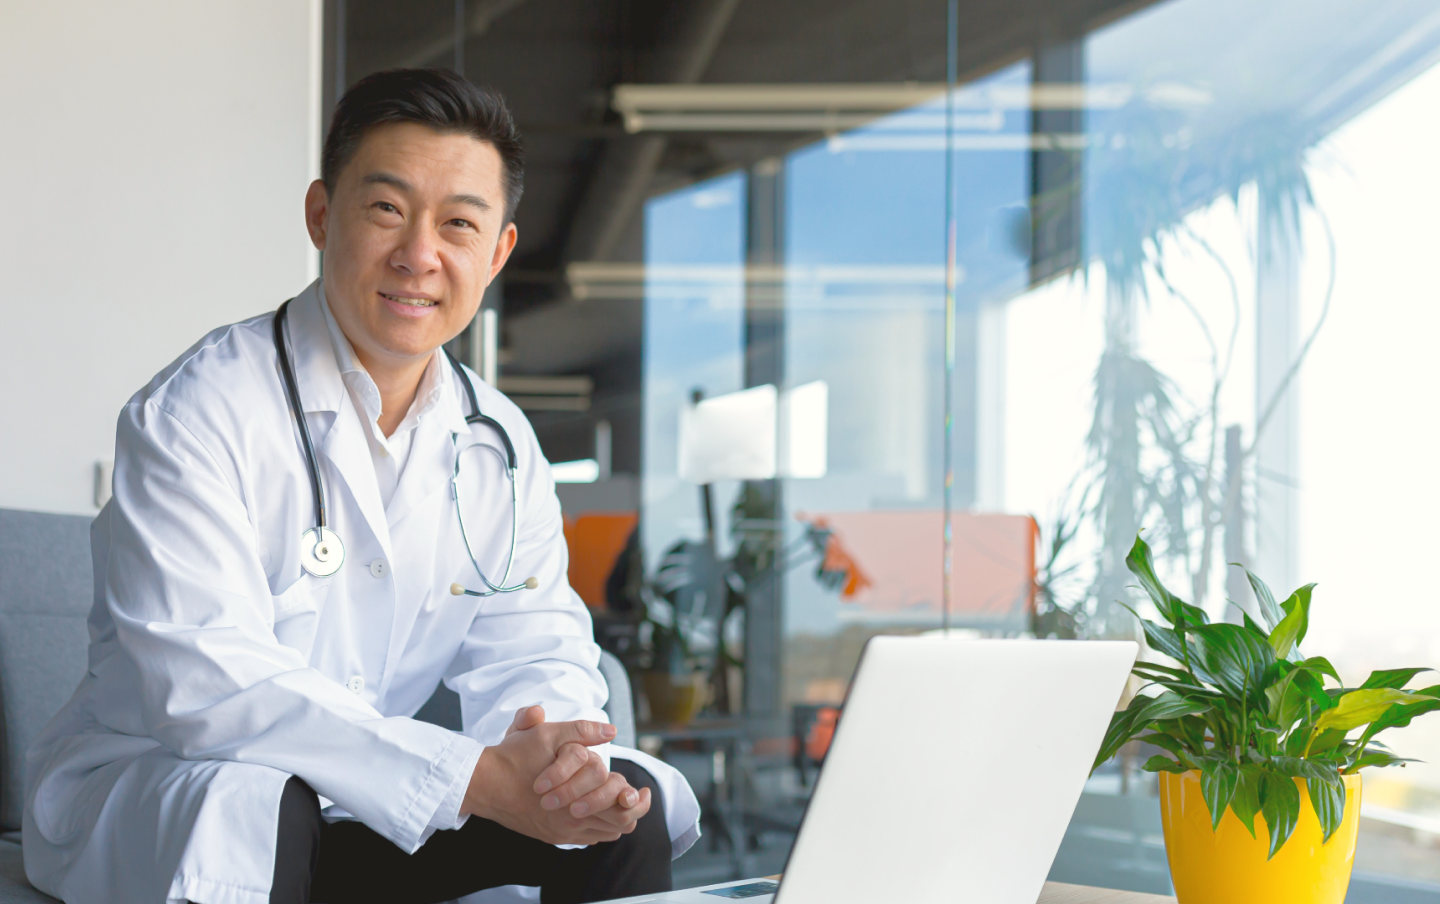
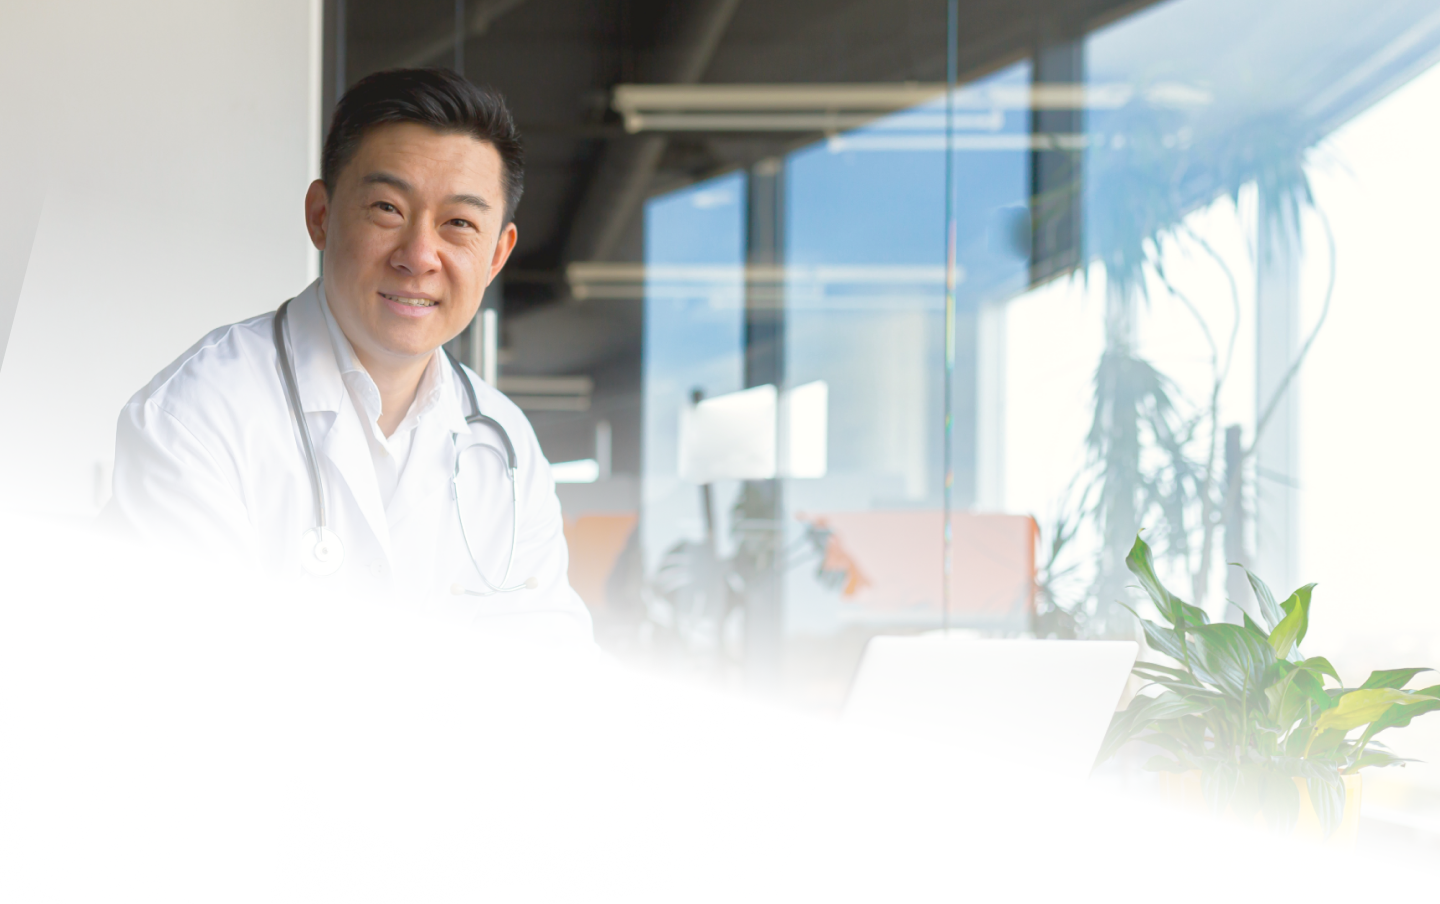
Replaced grey with white in cards and pge bg

diff --git a/tailwind.config.js b/tailwind.config.js
@@ -14,30 +14,43 @@ export default {
           800: '#11284B',
           900: '#0B1B34',
         },
-        /* ── The beige is gone ────────────────────────────────────────────
-           `cream` was #ECEAE1 — the page's own surface and the end stop of
-           every gradient — and `cream.soft` was #F3F5EE, the near-white used
-           for cards, the nav pill and the `light` button. Both are #CCD0D2 now,
-           the same value as `ash`, so there is no beige left in the palette.
+        /* ── Both of these are WHITE now ──────────────────────────────────
+           The history, because the names still say "cream": `cream` was #ECEAE1
+           and `cream.soft` #F3F5EE (a warm off-white for cards, the nav pill and
+           the `light` button); then both became #CCD0D2, the same grey as `ash`.
+           That second step is what made the site read as grey-on-grey — the page
+           itself was #CCD0D2, every card and button was #CCD0D2, and roughly a
+           dozen sections either declared `bg-cream-soft` or declared nothing and
+           inherited the body. Whatever tonal variety the layout had came from the
+           navy, gold and teal plates alone.
 
-           The two NAMES are kept rather than rewritten to `ash` across 42 call
-           sites, and they still mean different things at one value: `cream` is
-           "the page's own surface", `cream-soft` is "a surface sitting on the
-           page". If they ever need to diverge again, they diverge here.
+           So this is the single knob that turns the page white. `cream` is "the
+           page's own surface" and `cream-soft` is "a surface sitting on the page",
+           and at #FFFFFF both are the same thing, which is correct: the page is
+           white and the things on it are white.
 
-           One consequence to know about: a `cream-soft` card on a `cream`
-           section is now exactly the colour of the section, so those cards are
-           separated by their shadow alone rather than by tone. That is the
-           intended result, not an oversight.
+           ── Where the grey went instead ─────────────────────────────────────
+           Grey is now a SECTION colour and nothing else, spent deliberately in
+           nine places: Home's hero ramp and its FAQ → Availability tint band,
+           About's ValuesStack, MembersHub's card grid, Find a Doctor's spy list
+           and the ramp under it, Plans → Employers' closing ramp, PortalShowcase,
+           and StepFlow / CtaBand's opt-in `cream` surface. Every one of those
+           writes #CCD0D2 literally at the point of use, for the reason set out in
+           the `ash` note below — a section must not be able to lose its
+           background because a utility wasn't emitted.
 
-           `cream-soft` was also doing a second, unrelated job — LIGHT INK on
-           navy, in the footer, the ghost button's hover, the FAQ and LinkHub
-           rails and the map tooltip. Grey text on navy is not the same request
-           as a grey surface, so all 12 of those were switched to pure white
-           and none of them read this token any more. */
+           ── The consequence to know about ───────────────────────────────────
+           A white card on a white section has nothing but its shadow, and a few
+           cards had no shadow at all. Those took a `border-navy-800/[0.08]`
+           hairline in the same pass (FeatureReveal, DocumentShelf, VideoLibrary's
+           closed state, FaqExplorer's empty state, Virtual Care's treats card),
+           and `Button`'s `light` and `ghost` variants took a navy ring for the
+           same reason — a white button on a white section needs an edge. If a new
+           white card looks like it is floating in nothing, that hairline is the
+           fix, not a grey fill. */
         cream: {
-          DEFAULT: '#CCD0D2',
-          soft: '#CCD0D2',
+          DEFAULT: '#FFFFFF',
+          soft: '#FFFFFF',
         },
         gold: {
           DEFAULT: '#D5AC67',

diff --git a/src/components/Button.tsx b/src/components/Button.tsx
@@ -32,13 +32,17 @@ const iconMap = { arrow: ArrowRight, arrowUpRight: ArrowUpRight, plus: Plus }
 const PRIMARY_VARIANTS: ButtonProps['variant'][] = ['light', 'white', 'gold', 'dark']
 
 const baseColors: Record<NonNullable<ButtonProps['variant']>, string> = {
-  light: 'bg-cream-soft text-navy-800 shadow-sm',
-  // `white`, next to a `light` that is already nearly white, because #F3F5EE is
-  // NOT white: it is the site's warm off-white, mixed to sit on cream. On the
-  // gold, teal, navy and sky hero surfaces that warmth reads as a dirty panel,
-  // and the brief for all four asks for a white button with navy text. So the two
-  // coexist — `light` on cream and white page sections, `white` on a saturated
-  // one — and neither is a substitute for the other.
+  // Both `light` and `white` are white fills now, and the difference between
+  // them is the RING. `light` was #F3F5EE and then #CCD0D2 — a grey button, which
+  // is what it was doing on white sections. White with a navy hairline is the
+  // same control without the grey: on a white page the ring is the only thing
+  // giving the button an edge, and 10% navy is enough to draw one without
+  // reading as an outlined button.
+  light: 'bg-white text-navy-800 shadow-sm ring-1 ring-inset ring-navy-800/10',
+  // `white` keeps NO ring, and that is the whole reason the two still coexist:
+  // it is for the gold, teal, navy and sky surfaces, where the saturated field
+  // supplies the edge and a navy hairline just muddies it. `light` on light
+  // sections, `white` on saturated ones — neither is a substitute for the other.
   white: 'bg-white text-navy-800 shadow-sm',
   gold: 'bg-gold text-navy-800',
   // No `hover:bg-navy-700` any more: `dark` is a primary variant now, and the
@@ -46,7 +50,15 @@ const baseColors: Record<NonNullable<ButtonProps['variant']>, string> = {
   // element resolve by stylesheet order rather than by the order they are
   // written here, so the pair was a coin toss.
   dark: 'bg-navy-800 text-white',
-  ghost: 'bg-black/5 text-navy-800 hover:bg-navy-800 hover:text-white',
+  // TRANSPARENT, not white — the one variant that must not carry a fill.
+  // It was `bg-black/5`, which on a white page renders as a grey pill, and on
+  // gold as a dirty patch of gold. Transparent plus a navy hairline is the same
+  // secondary control on every surface it is actually used on: the mist hero,
+  // white sections, and the gold closing band (where it pairs with a white
+  // `light` button — a white ghost there would have made the pair two identical
+  // white buttons). Filling it white instead would break exactly that pairing.
+  ghost:
+    'bg-transparent text-navy-800 ring-1 ring-inset ring-navy-800/20 hover:bg-navy-800 hover:text-white hover:ring-navy-800',
 }
 
 // badge = the little circle the icon sits in on primary-style buttons.

diff --git a/src/components/Navbar/Navbar.tsx b/src/components/Navbar/Navbar.tsx
@@ -197,7 +197,7 @@ export default function Navbar() {
      PageHero/heroTone.tsx). navy-800/90 links and the four-colour mark are
      invisible on the navy hero, and the mark's lotus disappears on the gold one.
 
-     The moment the pill goes solid it is cream-soft again, whatever is behind it,
+     The moment the pill goes solid it is white again, whatever is behind it,
      so `solid` collapses straight back to the mist tokens — the ink follows the
      PILL, not the page. Which also means everything below is a plain colour swap
      on a `transition-colors`, with no state to keep in sync. */
@@ -217,7 +217,7 @@ export default function Navbar() {
         <nav
           aria-label="Main"
           className={`relative flex items-center justify-between gap-3 rounded-[28px] corner-smooth px-4 py-3 transition-all duration-500 sm:px-5 ${
-            solid ? 'bg-cream-soft/70 shadow-soft backdrop-blur-[28px]' : 'bg-transparent'
+            solid ? 'bg-white/70 shadow-soft backdrop-blur-[28px]' : 'bg-transparent'
           }`}
         >
           <Link href="/" aria-label="Fortiva home" className="shrink-0">
@@ -290,7 +290,7 @@ export default function Navbar() {
                       // pointer-events + aria-hidden instead keeps the panel
                       // focusable the instant it opens, and still animates on
                       // the way out (which a visibility swap would cut short).
-                      className={`absolute left-1/2 top-full z-10 mt-4 origin-top rounded-[20px] corner-smooth border border-navy-800/5 bg-cream-soft/95 p-2 shadow-soft backdrop-blur-[28px] transition-[opacity,transform] duration-200 ${
+                      className={`absolute left-1/2 top-full z-10 mt-4 origin-top rounded-[20px] corner-smooth border border-navy-800/10 bg-white/95 p-2 shadow-soft backdrop-blur-[28px] transition-[opacity,transform] duration-200 ${
                         twoColumn ? 'w-[460px]' : 'w-[268px]'
                       } ${
                         isOpen
@@ -350,7 +350,7 @@ export default function Navbar() {
         <div
           id="mobile-nav"
           data-lenis-prevent
-          className={`mt-3 origin-top overflow-y-auto rounded-[24px] corner-smooth border border-navy-800/5 bg-cream-soft/95 shadow-soft backdrop-blur-[28px] transition-all duration-300 lg:hidden ${
+          className={`mt-3 origin-top overflow-y-auto rounded-[24px] corner-smooth border border-navy-800/10 bg-white/95 shadow-soft backdrop-blur-[28px] transition-all duration-300 lg:hidden ${
             mobileOpen
               ? 'max-h-[calc(100vh-7.5rem)] scale-100 opacity-100'
               : 'pointer-events-none max-h-0 scale-[0.98] border-transparent opacity-0'

diff --git a/src/components/FaqExplorer/FaqExplorer.tsx b/src/components/FaqExplorer/FaqExplorer.tsx
@@ -271,7 +271,7 @@ export default function FaqExplorer({
                 onChange={(e) => setQuery(e.target.value)}
                 aria-label="Search the questions and answers"
                 placeholder="Search questions and answers"
-                className="corner-smooth w-full rounded-[14px] border border-navy-800/15 bg-cream-soft py-3 pl-11 pr-11 text-[15px] text-navy-800 transition-colors placeholder:text-navy-800/35 focus:border-navy-800/40 focus:outline-none"
+                className="corner-smooth w-full rounded-[14px] border border-navy-800/20 bg-white py-3 pl-11 pr-11 text-[15px] text-navy-800 transition-colors placeholder:text-navy-800/35 focus:border-navy-800/40 focus:outline-none"
               />
               {query && (
                 <button
@@ -365,7 +365,7 @@ export default function FaqExplorer({
           {/* ── grouped answers ────────────────────────────────────────────── */}
           <div>
             {shown.length === 0 ? (
-              <div className="corner-smooth rounded-card bg-cream-soft p-9 text-center">
+              <div className="corner-smooth rounded-card border border-navy-800/[0.08] bg-white p-9 text-center">
                 <h3 className="text-[20px] font-semibold text-navy-800">
                   Nothing matches &ldquo;{query.trim()}&rdquo;
                 </h3>
@@ -424,7 +424,7 @@ export default function FaqExplorer({
                                   {faq.q}
                                 </span>
                               </span>
-                              <span className="flex h-9 w-9 shrink-0 items-center justify-center rounded-full bg-cream-soft">
+                              <span className="flex h-9 w-9 shrink-0 items-center justify-center rounded-full border border-navy-800/15 bg-white">
                                 <Plus
                                   size={16}
                                   className="text-navy-800 transition-transform duration-300"

diff --git a/src/pages/About.tsx b/src/pages/About.tsx
@@ -206,10 +206,12 @@ export default function About() {
               superellipse wins — you get a squircle where the layout calls for a
               disc.
 
-              And it is cream below `lg`, white above. White is right where it sits
-              over the photograph; below `lg` the photograph is dropped and a white
-              disc on a white section is invisible — the plate disappeared and took
-              the shape of the section with it. Cream keeps it a plate.
+              And it is white at every width now, with a navy hairline. It used to
+              be `bg-cream lg:bg-white` — cream below `lg`, where the photograph is
+              dropped and a white disc on a white section would be invisible. The
+              `cream` token is white itself now, so that split had stopped meaning
+              anything; the hairline is what keeps the disc a plate where there is
+              no photograph under it.
 
               `shadow-soft` — 60px of blur at 25% navy, pulled in 20px — is the
               site's ambient shadow rather than its card shadow (`shadow-card` is
@@ -218,7 +220,7 @@ export default function About() {
               whole ask. It also does the job the `lg:bg-white` note above works
               around: the disc no longer relies on a colour change to be a plate,
               so it stays one on the white section below `lg` too. */}
-          <div className="mx-auto flex aspect-square w-full max-w-[400px] flex-col items-center justify-center rounded-full bg-cream px-9 text-center shadow-soft sm:max-w-[480px] sm:px-12 lg:mx-0 lg:bg-white">
+          <div className="mx-auto flex aspect-square w-full max-w-[400px] flex-col items-center justify-center rounded-full bg-white px-9 text-center shadow-soft ring-1 ring-navy-800/[0.08] sm:max-w-[480px] sm:px-12 lg:mx-0 lg:ring-0">
             <img
               ref={principlesMarkRef}
               src={images.icon}

diff --git a/src/styles/index.css b/src/styles/index.css
@@ -34,7 +34,7 @@ html.lenis body {
 
 body {
   font-family: 'New Hero', ui-sans-serif, system-ui, sans-serif;
-  background-color: #CCD0D2;
+  background-color: #FFFFFF;
   color: #11284B;
   overflow-x: hidden;
   -webkit-font-smoothing: antialiased;
@@ -110,7 +110,7 @@ body {
 
 /* soft ambient gradients, sampled from the reference screenshot */
 .gradient-hero {
-  background: linear-gradient(180deg, #BCCAD1 0%, #D3DCDF 30%, #CFD5D7 60%, #CCD0D2 100%);
+  background: linear-gradient(180deg, #BCCAD1 0%, #D3DCDF 30%, #E6EBED 60%, #FFFFFF 100%);
 }
 
 .gradient-lower {
@@ -143,12 +143,16 @@ body {
    because Plans → Employers uses it for a single self-contained section, where
    a full there-and-back ramp is the right shape. */
 :root {
-  /* Named `--band-cream` when it WAS cream. It is the page's grey now, and the
-     tint above it still lifts a few percent toward the brand's mist blue — so
-     the band reads as a subtle lightening of the grey rather than as a change
-     of temperature off a beige. The name is kept because two files and four
-     rules read it; what it holds is the page surface, whatever that is. */
-  --band-cream: #CCD0D2;
+  /* Named `--band-cream` when it WAS cream, and it went through a grey. The page
+     is WHITE now, so this holds white and the tint above it is what makes the
+     band a band: white → #E3E9EC → white, about an 8% step toward the brand's
+     mist blue. On a grey page that step was a barely-there change of
+     temperature; on white it is the one thing separating these two sections
+     from the rest of the page, which is the whole reason the band exists.
+
+     The name is kept because two files and four rules read it; what it holds is
+     the page surface, whatever that is. */
+  --band-cream: #FFFFFF;
   --band-tint: #E3E9EC;
 }
 

diff --git a/src/components/PortalShowcase/PortalShowcase.tsx b/src/components/PortalShowcase/PortalShowcase.tsx
@@ -474,7 +474,7 @@ export default function PortalShowcase({
        a fixed height. */
     <section
       ref={sectionRef}
-      className="bg-cream-soft pt-24 sm:pt-28 pin:flex pin:h-screen pin:flex-col pin:overflow-hidden pin:pt-28"
+      className="bg-[#CCD0D2] pt-24 sm:pt-28 pin:flex pin:h-screen pin:flex-col pin:overflow-hidden pin:pt-28"
     >
       {/* ── the centred copy block ──────────────────────────────────────────── */}
       <div className="px-6">
@@ -562,9 +562,15 @@ export default function PortalShowcase({
       </div>
 
       {/* ── the strip ───────────────────────────────────────────────────────
-          White on the section's cream, flush to its bottom edge, which is what
+          White on the section's grey, flush to its bottom edge, which is what
           makes it read as a bar the carousel is running behind rather than as a
-          row of links that happen to be underneath it. */}
+          row of links that happen to be underneath it.
+
+          This is why the section is one of the nine that KEEPS a grey plate now
+          that the page is white (see tailwind.config.js): the strip is white and
+          the carousel is navy, so both of them are drawn against the section
+          rather than against the page. On white the strip would be white on
+          white and only its top border would survive. */}
       <div className="shrink-0 border-t border-navy-800/10 bg-white">
         <div className="mx-auto max-w-container px-6">
           {/* The active section's own sentence. The reserved height is what stops a

diff --git a/src/components/FeatureReveal/FeatureReveal.tsx b/src/components/FeatureReveal/FeatureReveal.tsx
@@ -113,8 +113,12 @@ interface FeatureRevealProps {
    different degrees of transparency — as if some cards were letting more of the
    picture through than others.
 
-   Every card is `bg-cream-soft` now. The colour in this section comes from the
-   photograph and the gold badges; the cards are the quiet part. */
+   Every card is WHITE now, with a navy hairline. It was `bg-cream-soft`, which
+   was grey, which on the `light` tone put a grey card on a white section; and
+   white with only a shadow left the cards floating in nothing there. The colour
+   in this section comes from the photograph and the gold badges; the cards are
+   the quiet part. On the `dark` tone the hairline is invisible against navy,
+   which is harmless — the white fill is doing all the work there. */
 
 /* ── The two surfaces ────────────────────────────────────────────────────────
    Four tokens each, and there is deliberately no fifth for the cards: see the
@@ -456,7 +460,7 @@ export default function FeatureReveal({
               <div
                 key={feature.title}
                 ref={(el) => (cardRefs.current[i] = el)}
-                className={`corner-smooth relative flex flex-col rounded-2xl bg-cream-soft p-6 opacity-0 shadow-card-soft sm:p-7 pin:p-4 ${
+                className={`corner-smooth relative flex flex-col rounded-2xl border border-navy-800/[0.08] bg-white p-6 opacity-0 shadow-card-soft sm:p-7 pin:p-4 ${
                   i % 2 === 1 ? 'sm:top-14' : ''
                 }`}
               >

diff --git a/src/pages/MembersVirtualCare.tsx b/src/pages/MembersVirtualCare.tsx
@@ -179,7 +179,7 @@ export default function MembersVirtualCare() {
           </div>
 
           <div ref={treatsRef} className="opacity-0">
-            <div className="corner-smooth rounded-card bg-cream-soft p-7 sm:p-9">
+            <div className="corner-smooth rounded-card border border-navy-800/[0.08] bg-white p-7 sm:p-9">
               <div className="flex items-center gap-3">
                 <span className="flex h-11 w-11 items-center justify-center rounded-xl bg-gold">
                   <Video size={20} strokeWidth={1.75} className="text-navy-800" />
@@ -196,7 +196,7 @@ export default function MembersVirtualCare() {
                 {treats.map((item) => (
                   <li
                     key={item}
-                    className="corner-smooth flex items-center gap-2 rounded-[12px] bg-white px-3.5 py-2 text-[14px] font-medium text-navy-800/80"
+                    className="corner-smooth flex items-center gap-2 rounded-[12px] border border-navy-800/[0.12] bg-white px-3.5 py-2 text-[14px] font-medium text-navy-800/80"
                   >
                     <Thermometer size={14} strokeWidth={2} className="text-gold-dark" />
                     {item}

diff --git a/src/components/StepFlow/StepFlow.tsx b/src/components/StepFlow/StepFlow.tsx
@@ -19,9 +19,18 @@ interface StepFlowProps {
   surface?: 'white' | 'cream'
 }
 
+/* `cream` is the page's one opt-in grey plate — the `cream` tokens are white
+   now (see tailwind.config.js), so the grey is written literally here. Two pages
+   ask for it (Providers → Overview, Members → Virtual Care) and it is the only
+   tinted section on either.
+
+   `white`'s idle dot could not follow the token to white: an unlit dot on a
+   white section would be invisible, and the dots are how the section reads as a
+   sequence before it is scrolled. A 15% navy tint is the same "not yet" as the
+   old grey against a surface that is now white. */
 const SURFACES = {
-  white: { section: 'bg-white', ring: 'ring-white', dotIdle: 'bg-cream-soft' },
-  cream: { section: 'bg-cream-soft', ring: 'ring-cream-soft', dotIdle: 'bg-white' },
+  white: { section: 'bg-white', ring: 'ring-white', dotIdle: 'bg-navy-800/15' },
+  cream: { section: 'bg-[#CCD0D2]', ring: 'ring-[#CCD0D2]', dotIdle: 'bg-white' },
 } as const
 
 /**

diff --git a/src/pages/BrokersOverview.tsx b/src/pages/BrokersOverview.tsx
@@ -112,8 +112,11 @@ export default function BrokersOverview() {
 
       {/* ── Why work with us? ─────────────────────────────────────────────
           The doc's market sentence is the intro and its three bolded phrases are
-          the items. `bg-cream-soft` is ScrollSpyList's own default, which puts a
-          tinted plate between two white ones. */}
+          the items. No surface is passed, so it takes ScrollSpyList's own
+          default — WHITE now, where it used to be a tinted plate between the two
+          white image bands. The page's rhythm comes from those bands alternating
+          their photograph left and right; if this ever needs to be a plate again,
+          pass `className="bg-[#CCD0D2]"` the way Find a Doctor does. */}
       <ScrollSpyList
         eyebrow="WHY WORK WITH US"
         heading={

diff --git a/src/pages/ProvidersPartnerWithUs.tsx b/src/pages/ProvidersPartnerWithUs.tsx
@@ -133,9 +133,11 @@ export default function ProvidersPartnerWithUs() {
       />
 
       {/* ── FOR providers ─────────────────────────────────────────────────
-          The doc's four, one lit at a time. `bg-cream-soft` is ScrollSpyList's own
-          default, which puts a tinted plate between the white band above and the
-          navy one below. */}
+          The doc's four, one lit at a time. No surface is passed, so it takes
+          ScrollSpyList's own default — WHITE now, where it used to be a tinted
+          plate between the white band above and the navy one below. The navy band
+          is still the break; if this needs to be a plate again, pass
+          `className="bg-[#CCD0D2]"` the way Find a Doctor does. */}
       <ScrollSpyList
         eyebrow="FOR PROVIDERS"
         heading={
